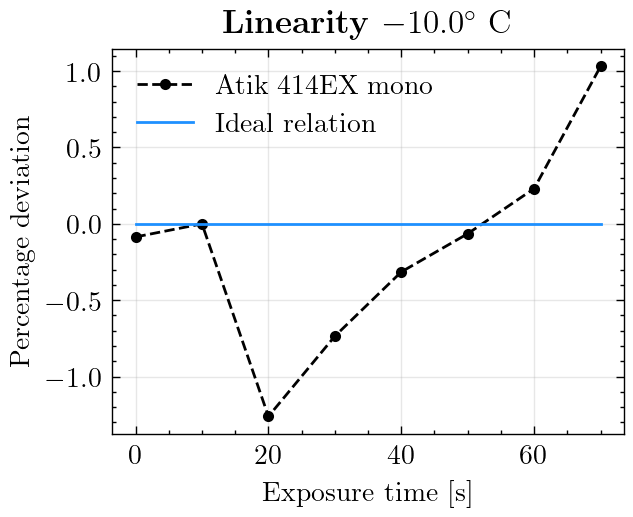
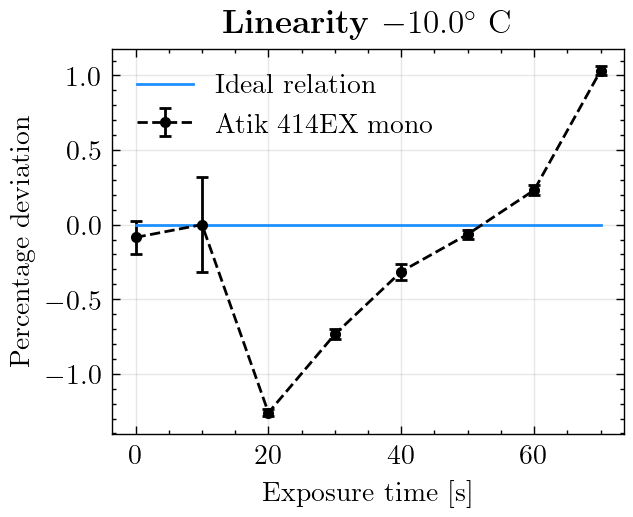
Pushing data and code for safety

diff --git a/main.py b/main.py
@@ -16,21 +16,47 @@ import ccd
 
 
 def produce_plots():
+    data_series = util.list_data(linearity_sequence)
+    filepath = util.get_path(linearity_sequence + data_series[0])
+    hdul, header, imagedata = util.fits_handler(filepath)
+    bias_dist = imagedata.flatten()
+    gaussdata = np.linspace(240, 375, 1000)
+    gaussmean = np.mean(imagedata)
+    gausswidth = np.std(bias_dist)
+    print("The found width of the ADU distribution is ", gausswidth, " ADUs")
+    print("This corresponds to a readout noise of ", gausswidth * 0.28 * np.sqrt(8 * np.log(2)))
+    n, bins, patches = plt.hist(bias_dist, bins=1000, color='dodgerblue', width=0.8, label="Individual bias frame")
+    gaussheight = np.amax(n)
+    plt.plot(gaussdata, util.gaussian(gaussdata, gaussheight, gaussmean, gausswidth), c='navy', label="Gaussian")
+    bias_dist = atik_camera.master_bias.flatten()
+    gaussmean = np.mean(bias_dist)
+    gausswidth = np.std(bias_dist)
+    n, bins, patches = plt.hist(bias_dist, bins=350, color='steelblue', width=0.4, label="Master bias frame")
+    gaussheight = np.amax(n)
+    plt.plot(gaussdata, util.gaussian(gaussdata, gaussheight, gaussmean, gausswidth), c='k', ls="--", label="Poissonian")
+    plt.legend(bbox_to_anchor=(1, 1), loc="upper left")
+    pp.pubplot("$\mathbf{Bias\;\;distribution:}$ " + atik_camera.name, "Bias value", "Counts", "gauss_bias.png", legend=False, xlim = [260, 350])
+
     pp.plot_image(atik_camera.master_bias, "master_bias_fig")
     pp.pubplot("$\mathbf{Master\;\;bias\;\;image:}$ " + atik_camera.name, "x", "y", "master_bias.png", legend=False, grid=False)
+
     pp.plot_image(atik_camera.master_dark, "master_dark_fig")
     pp.pubplot("$\mathbf{Master\;\;dark\;\;current\;\;image:}$ " + atik_camera.name, "x", "y", "master_dark.png", legend=False, grid=False)
+
     pp.plot_image(atik_camera.master_flat, "master_flat_fig")
     pp.pubplot("$\mathbf{Master\;\;flat\;\;field\;\;image:}$ " + atik_camera.name, "x", "y", "master_flat.png", legend=False, grid=False)
-    plt.plot(dark_current_data[:, 0], dark_current_data[:, 1], ls='--', c='k', lw=1, marker='o', markersize=3, label="Dark current")
+
+    plt.errorbar(dark_current_data[:, 0], dark_current_data[:, 1], yerr=dark_current_data[:, 2], ls='--', c='k', lw=1, marker='o', markersize=3, label="Dark current", capsize=2)
     # pp.pubplot("$\mathbf{Dark\;\; current}$", "Temperature [$^\circ$C]", "($\mathbf{e}^-$/sec)/pixel", "dark_current_versus_temperature.png", legendlocation="upper left")
-    plt.plot(readout_noise_data[:, 0], readout_noise_data[:, 1], ls='--', c='dodgerblue', lw=1, marker='o', markersize=3, label="Readout noise")
+    plt.errorbar(readout_noise_data[:, 0], readout_noise_data[:, 1], yerr=readout_noise_data[:, 2], ls='--', c='dodgerblue', lw=1, marker='o', markersize=3, label="Readout noise", capsize=2)
     pp.pubplot("$\mathbf{Noise}$ " + atik_camera.name, "Temperature [$^\circ$C]", "RMS $\mathbf{e}^-$/pixel", "noise_versus_temperature.png", legendlocation="upper left")
+
     plt.plot(linearity_data[:-3, 0], ideal_linear_relation[:-3], ls='-', c='dodgerblue', lw=1, label="Ideal relationship")
-    plt.plot(linearity_data[:, 0], linearity_data[:, 1], ls='--', c='k', lw=1, marker='o', markersize=3, label=atik_camera.name)  # + "$-10.0^\circ $ C")
+    plt.errorbar(linearity_data[:, 0], linearity_data[:, 1], yerr=linearity_data[:, 2], ls='--', c='k', lw=1, marker='o', markersize=3, label=atik_camera.name, capsize=2)  # + "$-10.0^\circ $ C")
     # plt.plot(linearity_data_20C[:, 0], linearity_data_20C[:, 1], ls='-.', c='mediumspringgreen', lw=1, marker='o', markersize=3, label=atik_camera.name + "$20.0^\circ $ C")
     pp.pubplot("$\mathbf{Linearity}$ $-10.0^\circ $ C ", "Exposure time [s]", "Mean ADU/pixel", "linearity.png", legendlocation="lower right")
-    plt.plot(linearity_data[:-3, 0], linearity_deviations[:-3], ls='--', c='k', lw=1, marker='o', markersize=3, label=atik_camera.name)
+
+    plt.errorbar(linearity_data[:-3, 0], linearity_deviations[:-3], yerr=linearity_dev_err[:-3], ls='--', c='k', lw=1, marker='o', markersize=3, label=atik_camera.name, capsize=2)
     plt.plot(linearity_data[:-3, 0], np.zeros(len(linearity_data[:-3])), ls='-', c='dodgerblue', lw=1, label="Ideal relation")
     pp.pubplot("$\mathbf{Linearity}$ $-10.0^\circ $ C ", "Exposure time [s]", "Percentage deviation ", "linearity_deviations.png", legendlocation="upper left")
 
@@ -47,7 +73,8 @@ def produce_plots():
         else:
             plt.plot(np.asarray(range(0, 100)), stabillity_data[exposure, :], ls='--', lw=1, label=str(exposure * 10) + "s")
 
-    pp.pubplot("$\mathbf{Lightsource\;\;stabillity}$", "Repeat no.", "\%- dev. from seq. mean", "lightsource.png", legendlocation="upper right")
+    plt.legend(bbox_to_anchor=(1, 1), loc="upper left")
+    pp.pubplot("$\mathbf{Lightsource\;\;stabillity}$", "Repeat no.", "\%- dev. from seq. mean", "lightsource.png", legend=False)
     return
 
 
@@ -68,7 +95,9 @@ if __name__ == '__main__':
     atik_camera.master_bias_image(bias_sequence)
     atik_camera.master_dark_current_image(bias_sequence, exposure_time=0.001)
     atik_camera.master_flat_field_image(flat_sequence)
-    atik_camera.readout_noise_estimation(bias_sequence, temperature=-10)
+
+    ADU_width = atik_camera.readout_noise_estimation(bias_sequence, temperature=-10)
+
     atik_camera.hot_pixel_estimation(hot_pixel_sequence, num_of_repeats=2, exposure_time=[90, 1000])
     atik_camera.test_zeropoint(zeropoint_sequence, num_of_data_points=8, num_of_repeats=100)
 
@@ -76,7 +105,7 @@ if __name__ == '__main__':
     readout_noise_data      =   atik_camera.readout_noise_vs_temperature(readout_noise_sequence, exposure_time=0.001, num_of_repeats=100, num_of_temperatures=16)
     linearity_data          =   atik_camera.linearity_estimation(linearity_sequence, num_of_exposures=11, num_of_repeats=100)
 
-    ideal_linear_relation, linearity_deviations = atik_camera.linearity_precision()
+    ideal_linear_relation, linearity_deviations, linearity_dev_err = atik_camera.linearity_precision()
 
     stabillity_data         =   atik_camera.test_lightsource_stabillity(linearity_sequence, num_of_data_points=11, num_of_repeats=100)
     # linearity_data_20C      =   atik_camera.linearity_estimation(linearity_sequence_20C, num_of_exposures=10, num_of_repeats=100)

diff --git a/ccd.py b/ccd.py
@@ -221,10 +221,12 @@ class CCD:
             if repeat_sequence[0][13] == "m":
                 temperature *= -1
 
+            errorbar = util.compute_errorbar(repeat_sequence, path_of_data_series)
+
             # Check for consistency
             if header['EXPTIME'] == exposure_time:
                 dark_per_time_per_pixel = np.mean(np.divide(np.multiply(repeat_sequence_meaned, self.gain_factor), exposure_time))
-                tmplist.append([temperature, dark_per_time_per_pixel])
+                tmplist.append([temperature, dark_per_time_per_pixel, errorbar])
             else:
                 print("dark_current_vs_temperature(): Error, exposure times do not match up")
                 print("dark_current_vs_temperature(): Exposure time was: ", header['EXPTIME'])
@@ -364,8 +366,9 @@ class CCD:
             # Check for consistency
             check_temperature = (temperature*1.1 <= header['CCD-TEMP'] <= temperature*0.9) or (temperature*1.1 >= header['CCD-TEMP'] >= temperature*0.9)
             if check_temperature:
-                noise_deviation     =   np.subtract(self.master_bias, imagedata) * self.gain_factor
-                tmp_std[it]         =   np.std(noise_deviation) / np.sqrt(2)
+                # noise_deviation     =   np.subtract(np.mean(imagedata), imagedata) * self.gain_factor # self.master_bias
+                noise_deviation     =   np.subtract(self.master_bias, imagedata) # * self.gain_factor
+                tmp_std[it]         =   np.std(noise_deviation) * self.gain_factor * np.sqrt(8 * np.log(2))
                 tmp_mean[it]        =   np.mean(noise_deviation)
             else:
                 print(header['CCD-TEMP'])
@@ -377,6 +380,7 @@ class CCD:
 
         print(f"The readout noise level is {readout_noise:.3f} RMS electrons per pixel.")
         self.readout_noise_level = readout_noise
+        return np.mean(tmp_std)
 
     def readout_noise_vs_temperature(self, path_of_data_series, num_of_temperatures, num_of_repeats, exposure_time):
         print("Computing readout noise as a function of temperature...")
@@ -409,7 +413,8 @@ class CCD:
                 if it == num_of_repeats:
                     it = 0
 
-            readout_noise.append([temperature, np.sqrt(np.mean(np.square(tmp_std)))])
+            errorbar = util.compute_errorbar(repeat_sequence, path_of_data_series)
+            readout_noise.append([temperature, np.sqrt(np.mean(np.square(tmp_std))), errorbar])
 
         tmparray = np.sort(np.asarray(readout_noise), axis=0)
 
@@ -493,14 +498,17 @@ class CCD:
             # Treat hot pixels
             repeat_sequence_meaned[np.where(self.hot_pixel_mask)] = np.mean(repeat_sequence_meaned[np.where(np.logical_not(self.hot_pixel_mask))])
 
+            # Compute errorbars
+            errorbar = util.compute_errorbar(repeat_sequence, path_of_data_series)
+
             # Check for consistency
             if header['EXPTIME'] == exposure_time:
-                tmplist.append([exposure_time, np.mean(repeat_sequence_meaned)])
+                tmplist.append([exposure_time, np.mean(repeat_sequence_meaned), errorbar])
             else:
                 print("linearity_estimation(): Error, exposure times do not match up")
                 print("linearity_estimation(): Exposure time was: ", header['EXPTIME'], "should have been: ", exposure_time)
 
-                tmplist.append([exposure_time, np.mean(repeat_sequence_meaned)])\
+                tmplist.append([exposure_time, np.mean(repeat_sequence_meaned), errorbar])
 
         linearity_array     =   np.asarray(tmplist)
 
@@ -546,6 +554,7 @@ class CCD:
     def linearity_precision(self):
         print("Testing the precision of the linearity measurement...")
         linearity_data      =   self.linearity[:, 1]
+        error_data          =   self.linearity[:, 2]
         query_points        =   self.linearity[:, 0]
         reference_point     =   self.linearity[1, 1]
 
@@ -554,9 +563,11 @@ class CCD:
 
         ideal_linearity     =   np.add(np.multiply(query_points, ideal_slope), ideal_offset)
         deviations          =   np.multiply(np.divide(np.subtract(ideal_linearity, linearity_data), linearity_data), 100)
+        errors              =   np.multiply(np.divide(error_data, linearity_data), 100)
         deviations[0]       =   np.subtract(ideal_linearity[0], linearity_data[0])
+        errors[0]           =   error_data[0]
 
-        return ideal_linearity, deviations
+        return ideal_linearity, deviations, errors
 
     def test_zeropoint(self, path_of_data_series: str, num_of_data_points: int, num_of_repeats: int):
 
@@ -570,7 +581,7 @@ class CCD:
                                                            num_of_repeats_input=num_of_repeats,
                                                            where_is_repeat_num_in_string=[10, 13],
                                                            data_series_list=data_series)
-        print(reordered_data)
+
         repeat_sequence_meaned  =   []
         for repeat_sequence in reordered_data:
             repeat_sequence_meaned.append(util.mean_image(repeat_sequence, path_of_data_series))

diff --git a/utilities.py b/utilities.py
@@ -137,6 +137,19 @@ def repeat_sequence_ordered_data(num_of_datapoints_input: int, num_of_repeats_in
     return reordered_data
 
 
+def compute_errorbar(filelist: list, dirpath: str):
+    distribution_of_image_means = []
+
+    for imageid in filelist:
+        filepath = get_path(dirpath + imageid)
+        hdul, header, imagedata = fits_handler(filepath)
+        distribution_of_image_means.append(np.mean(imagedata))
+        hdul.close()
+
+    errorbar = np.std(np.asarray(distribution_of_image_means))
+    return errorbar
+
+
 def mean_image(filelist: list, dirpath: str):
     """
     This is a helper function that returns the mean image from
@@ -169,3 +182,7 @@ def mean_image(filelist: list, dirpath: str):
 
     mean_image_array /= number_of_images
     return mean_image_array
+
+
+def gaussian(data, height, mean, width):
+    return height * np.exp(-((data - mean) ** 2) / (2 * (width ** 2)))
